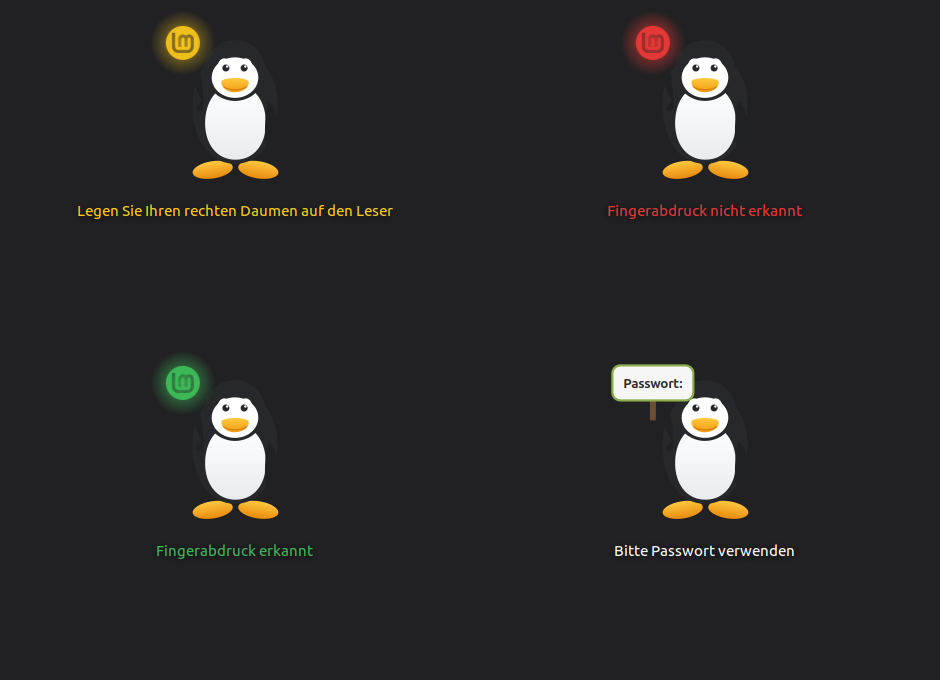
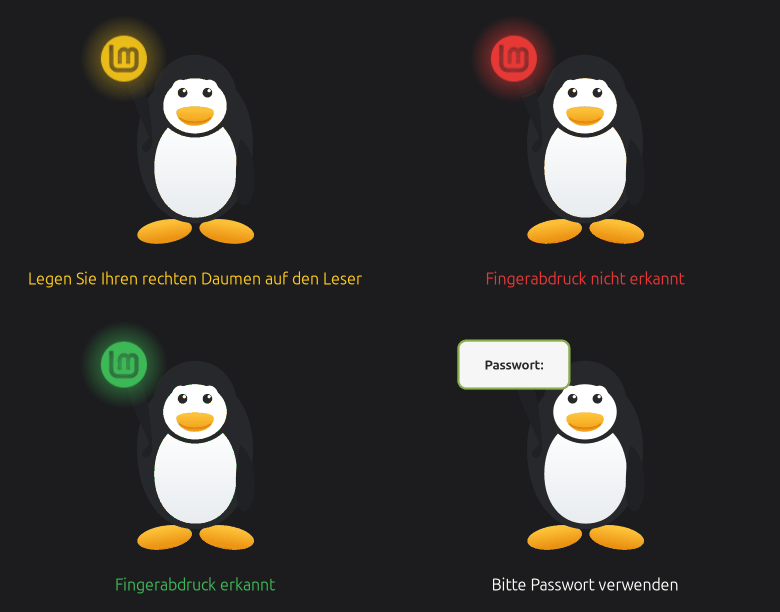
Drop the sign's handle
The "Passwort:" sign no longer has a stick. Tux holds it the same way he holds
the logo - the hand is where it is, and drawing a pole to it added a second
idea to a picture that only needed one.

The animation and the stills are regenerated from the same source, so all three
show the same thing.

diff --git a/src/fingerprintPanel.py b/src/fingerprintPanel.py
@@ -376,10 +376,6 @@ class FingerprintPanel(Gtk.Box):
         radius = 8
         x, y = hx - width / 2, hy - height / 2
 
-        cr.set_source_rgba(0.42, 0.31, 0.20, 1.0)
-        cr.rectangle(hx - 3, y + height - 4, 6, 24)
-        cr.fill()
-
         cr.new_sub_path()
         cr.arc(x + width - radius, y + radius, radius, -math.pi / 2, 0)
         cr.arc(x + width - radius, y + height - radius, radius, 0, math.pi / 2)
